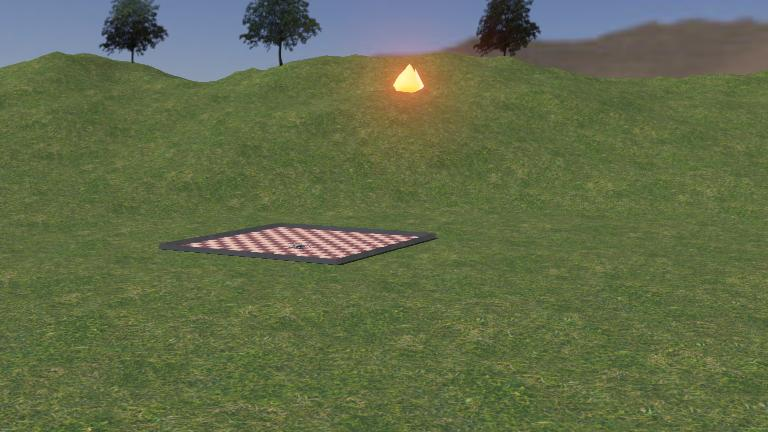
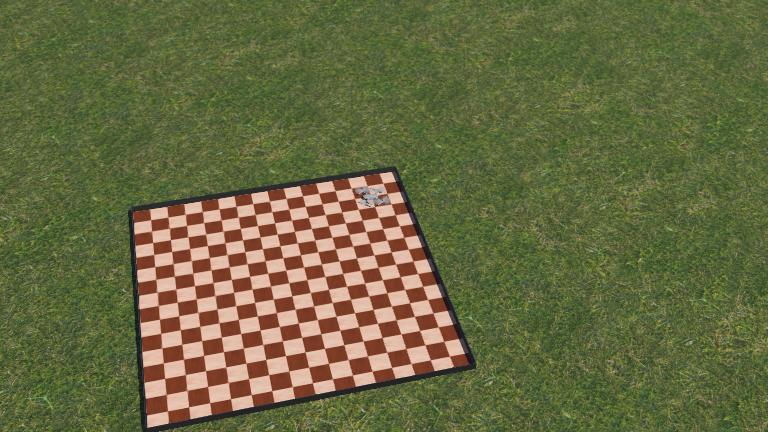
commit4

diff --git a/Controllers/swarm_controller/swarm_env.py b/Controllers/swarm_controller/swarm_env.py
@@ -43,22 +43,32 @@ class WildfireSwarmEnv:
     def _spawn_swarm(self):
         root = self.sv.getRoot()
         children_field = root.getField('children')
-        
+
+        base_drone = self.sv.getFromDef('drone_0')
+        if base_drone is not None:
+            base_pos = np.array(base_drone.getPosition())
+        else:
+            base_pos = np.array([0.0, 0.0, 0.12])
+
         for i in range(NUM_DRONES):
             if i == 0:
-                self.drones.append(self.sv.getFromDef('drone_0'))
+                self.drones.append(base_drone)
                 continue
-                
+
             # 100ms staggering buffer during creation loop
             wait_steps = max(1, int(10 / self.timestep))
             for _ in range(wait_steps):
                 self.sv.step(self.timestep)
-                
-            x = i * SPACING
+
+            offset_x = (i % 2) * SPACING
+            offset_y = (i // 2) * SPACING
+            x = base_pos[0] + offset_x
+            y = base_pos[1] + offset_y
+            z = base_pos[2]
             drone_string = (
                 f'DEF drone_{i} Mavic2Pro {{ '
                 f'name "drone_{i}" '
-                f'translation {x} 0.0 0.12 '
+                f'translation {x} {y} {z} '
                 f'controller "drone_controller" '
                 f'}}'
             )